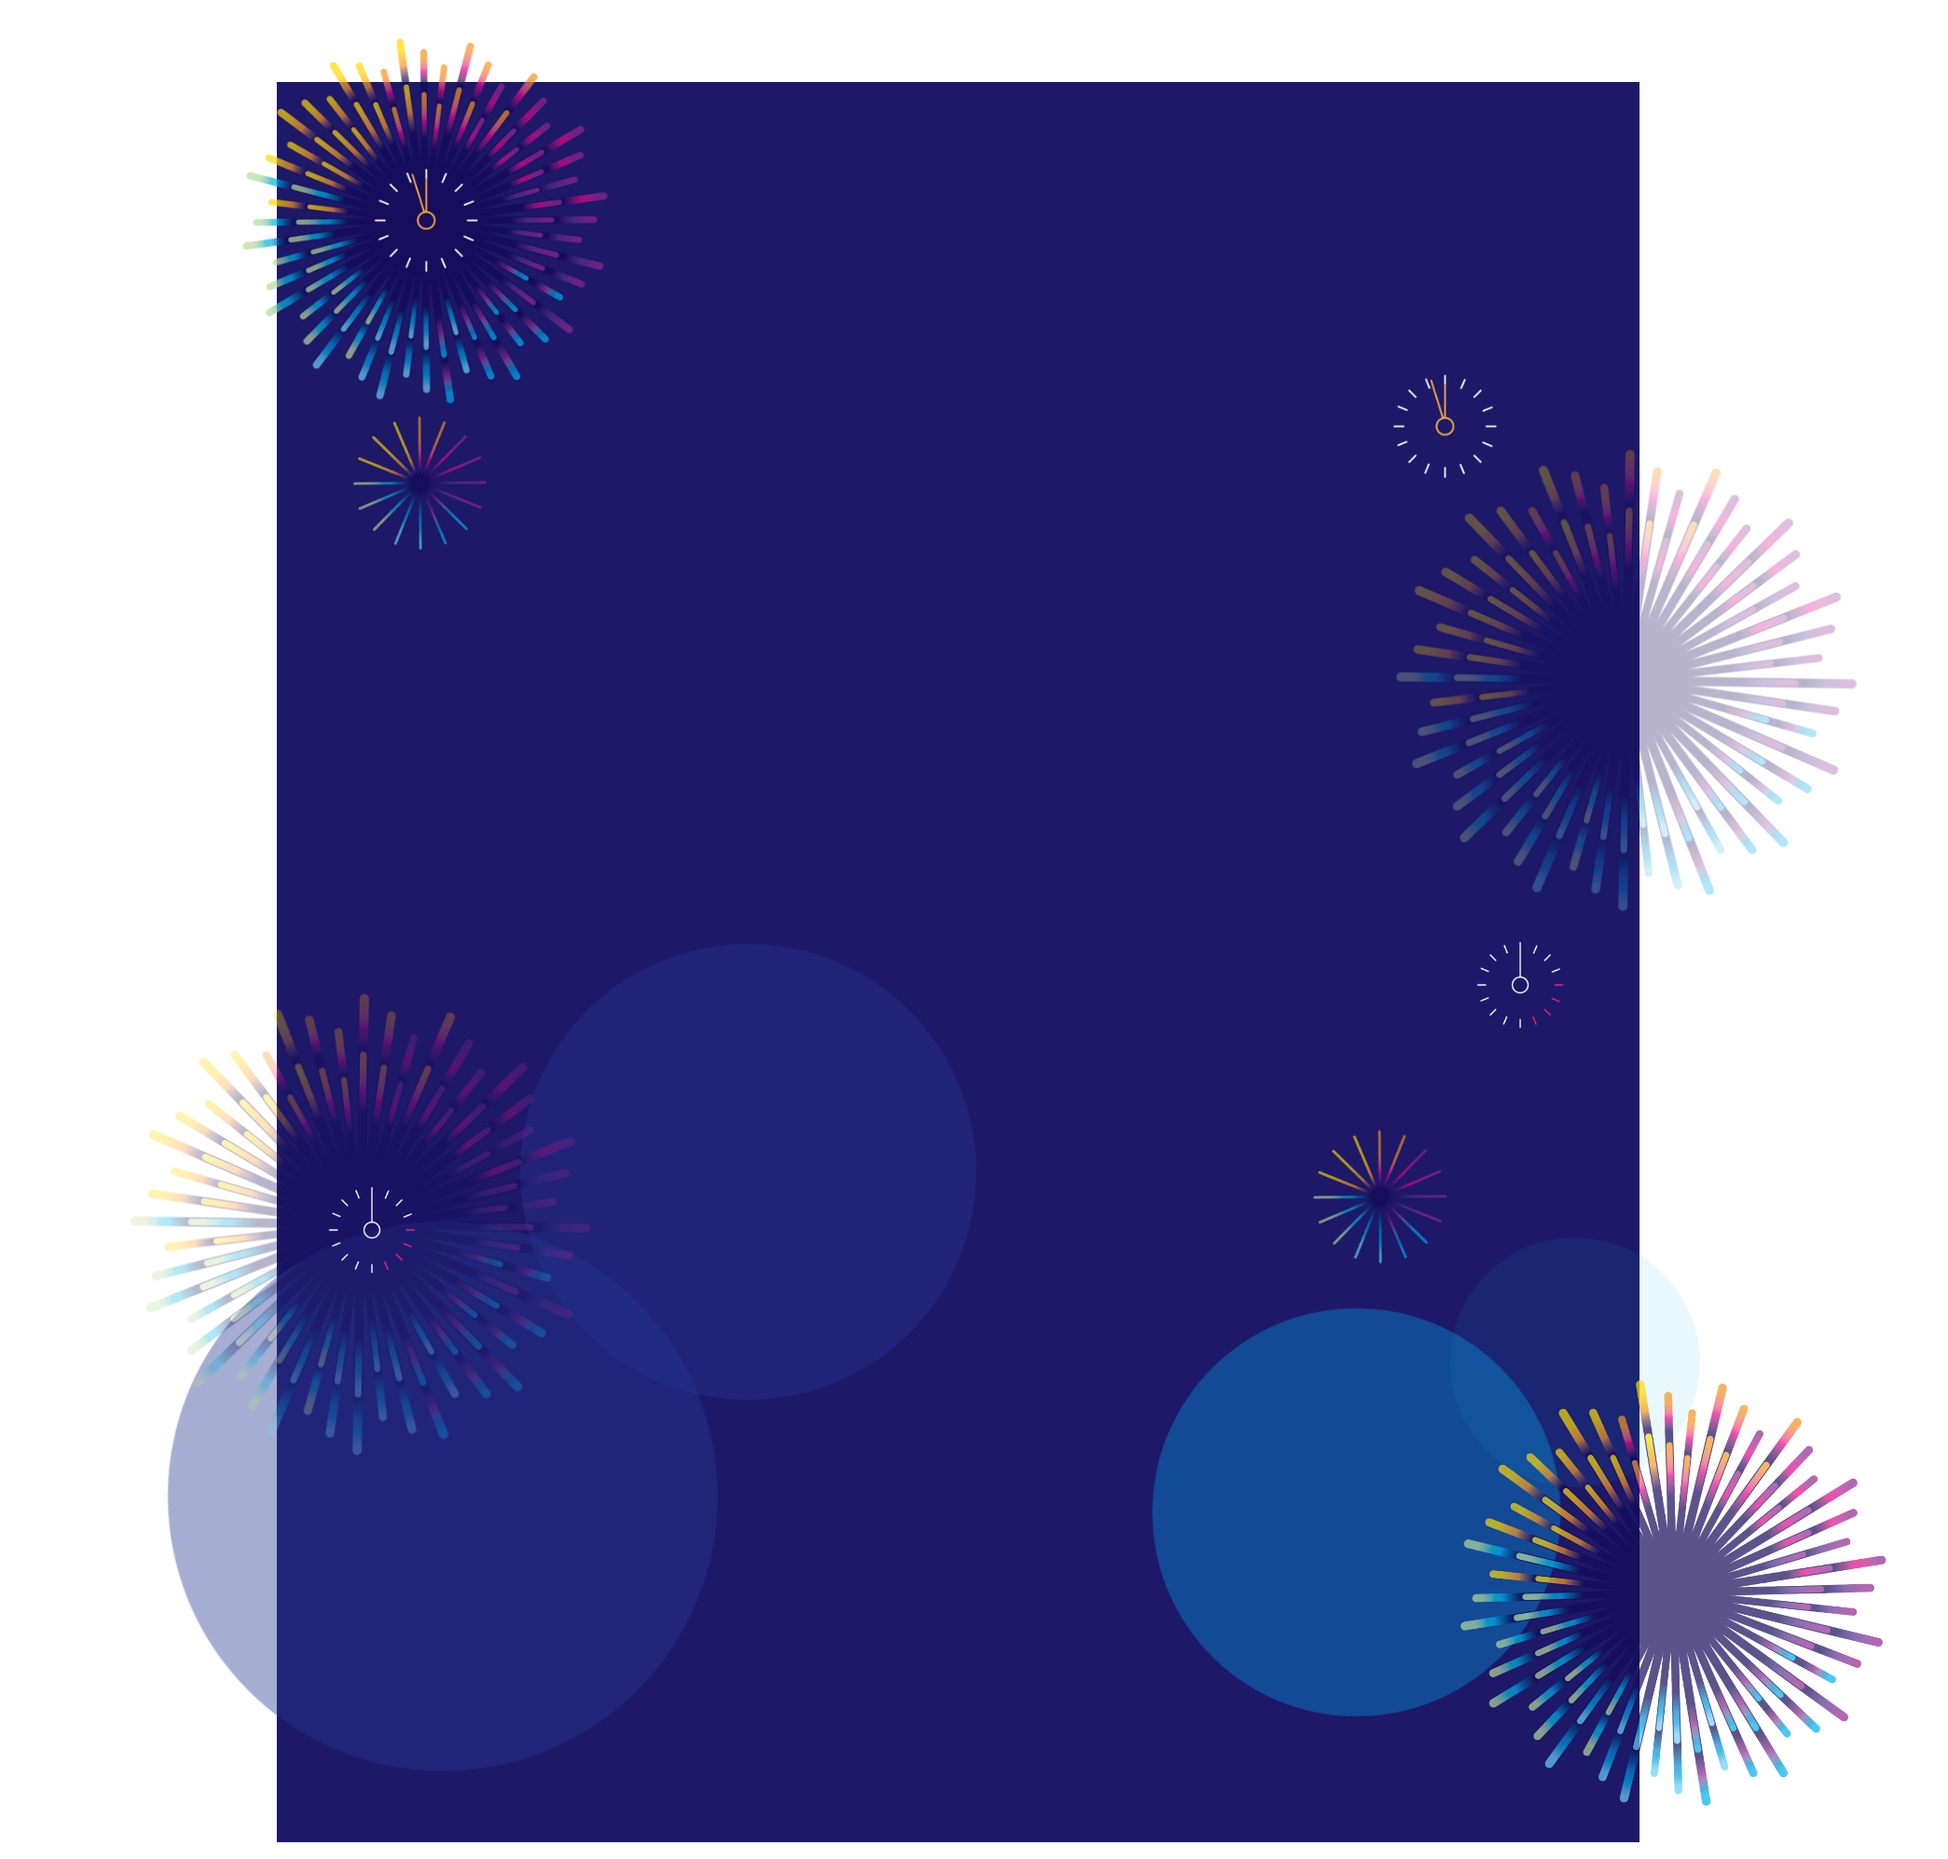
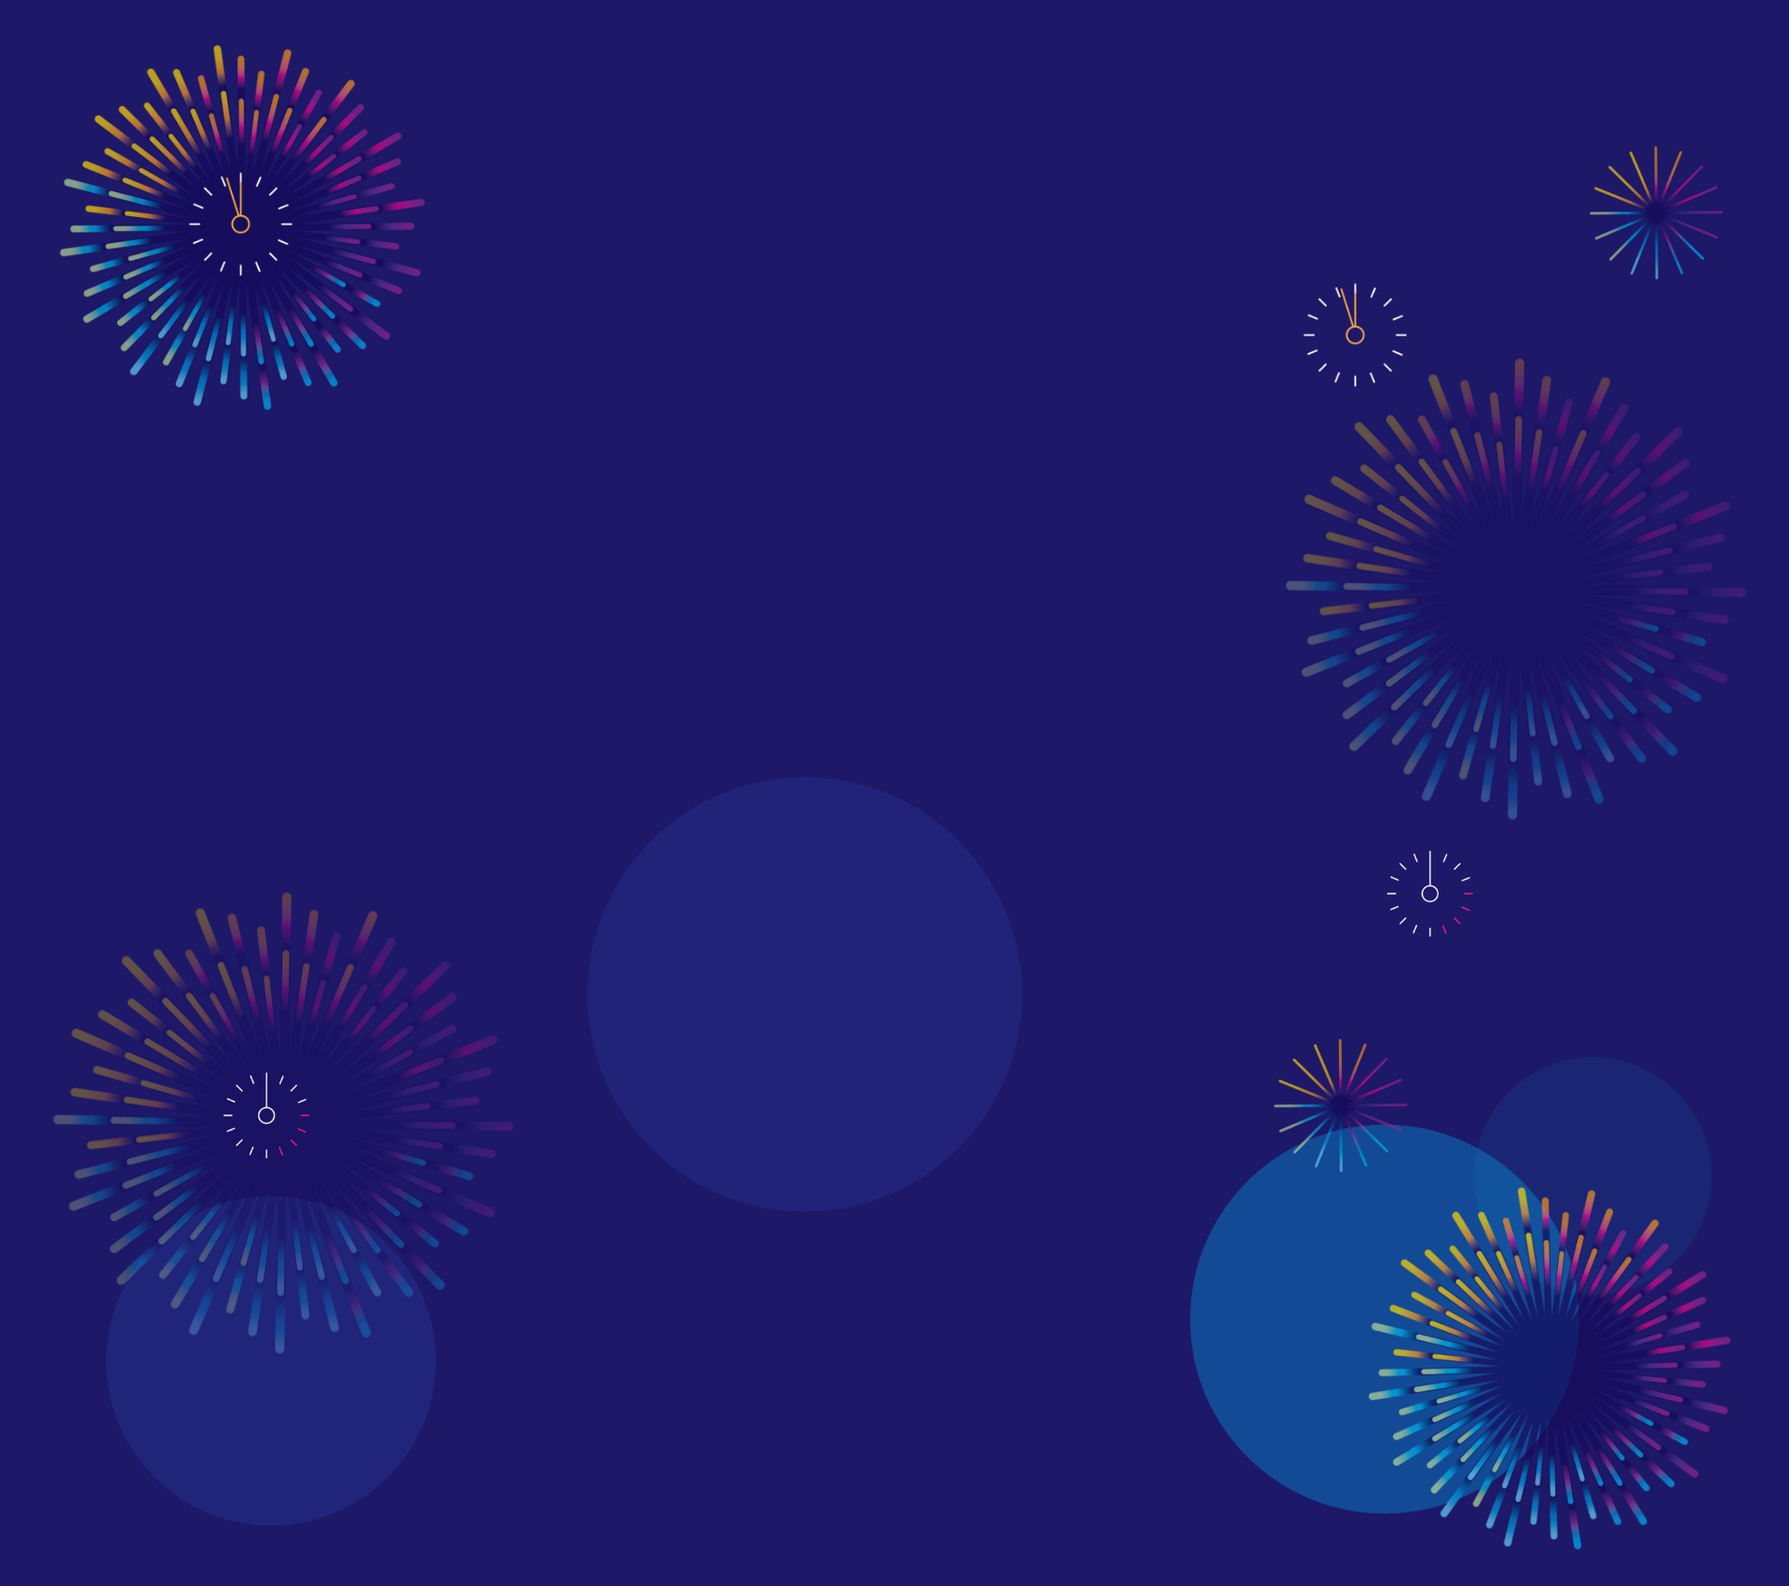
finished page

diff --git a/index.html b/index.html
@@ -15,8 +15,14 @@
     <main id="landing-container">
 
         <div id="hero-section" class="container">
-            <img src="hero-image.png" alt="Hero Image" class="hero-img">
-            <img src="Vehicle Lineup.png" id="jellybean">
+            <img src="https://di-uploads-pod14.dealerinspire.com/westhillsautoplex/uploads/2020/12/Hero-image.png"
+                alt="Hero Image" class="hero-img">
+            <img src="https://di-uploads-pod14.dealerinspire.com/westhillsautoplex/uploads/2020/12/Hero-M.png"
+                alt="Hero Image" class="hero-img-m">
+            <img src="https://di-uploads-pod14.dealerinspire.com/westhillsautoplex/uploads/2020/12/Vehicle-Lineup.png"
+                id="jellybean">
+            <img src="https://di-uploads-pod14.dealerinspire.com/westhillsautoplex/uploads/2020/12/Vehicle-Lineup-m.png"
+                id="jellybean-m">
 
         </div>
         <div class="container incentive-section">
@@ -25,14 +31,11 @@
         </div>
         <section id="button-box-section">
             <div class="container row buttons-box">
-                <a href="https://www.heartlandtoyota.com/new-vehicles/"><button class="inv-button">New
+                <a href="https://www.westhillsautoplex.com/new-vehicles/"><button class="inv-button">New
                         Inventory</button></a>
-                <a href="https://www.heartlandtoyota.com/used-vehicles-lightning-test/used-vehicles/"><button
-                        class="inv-button">Pre-Owned
+                <a href="https://www.westhillsautoplex.com/used-vehicles/"><button class=" inv-button">Pre-Owned
                         Inventory</button></a>
-                <a
-                    href="https://www.heartlandtoyota.com/used-vehicles-lightning-test/used-vehicles/certified-pre-owned-vehicles/"><button
-                        class="
+                <a href="https://www.westhillsautoplex.com/used-vehicles/certified-pre-owned-vehicles/"><button class="
                     inv-button">Certified
                         Pre-Owned</button></a>
             </div>

diff --git a/main.css b/main.css
@@ -33,7 +33,7 @@ body {
   flex-direction: column;
   justify-content: flex-start;
   align-items: stretch;
-  background: url(Background.png);
+  background: url(https://di-uploads-pod14.dealerinspire.com/westhillsautoplex/uploads/2020/12/Background.png);
   background-position: center;
   background-color: #1d1868;
   background-repeat: no-repeat;
@@ -48,11 +48,18 @@ body {
   margin-top: -10em;
 }
 
+.hero-img-m {
+  display: none;
+}
+
 #jellybean {
   margin-top: -12em;
   position: relative;
 }
 
+#jellybean-m {
+  display: none;
+}
 .disclaim-box {
   width: 100%;
 
@@ -145,10 +152,17 @@ body {
 }
 
 @media only screen and (max-width: 800px) {
+  #jellybean-m {
+    display: none;
+  }
+
   .hero-img {
-    width: 1000px;
+    width: 800px;
     height: auto;
     margin-top: 75px;
+  }
+  .hero-img-m {
+    display: none;
   }
 
   #jellybean {
@@ -178,8 +192,61 @@ body {
 
   #landing-container {
     height: 1440px;
-    background: url(Background-T.png);
+    background: url(https://di-uploads-pod14.dealerinspire.com/westhillsautoplex/uploads/2020/12/Background-T.png);
     background-color: #1d1868;
     background-position: center;
+  }
+}
+
+@media only screen and (max-width: 600px) {
+  .hero-img {
+    width: 100%;
+    height: auto;
+    margin-top: 75px;
+  }
+
+  #landing-container {
+    height: 1200px;
+    background: url(https://di-uploads-pod14.dealerinspire.com/westhillsautoplex/uploads/2020/12/Background-m.png);
+    background-color: #1d1868;
+    background-position: center;
+  }
+
+  #jellybean {
+    display: none;
+  }
+
+  #jellybean-m {
+    margin-top: -45px;
+    margin-right: 40px;
+    display: inline;
+  }
+
+  .hero-img {
+    display: none;
+  }
+
+  .hero-img-m {
+    display: inline;
+    width: 100%;
+  }
+
+  .yes-h1 {
+    font-size: 38px;
+  }
+
+  .inv-button {
+    width: 320px;
+    height: 45px;
+    margin-top: 15px;
+    margin-bottom: 10px;
+  }
+
+  .disclaimer-button {
+    margin-top: -70px;
+    width: 320px;
+    height: 45px;
+    padding-top: 5px;
+    margin-bottom: 5px;
   }
 }
